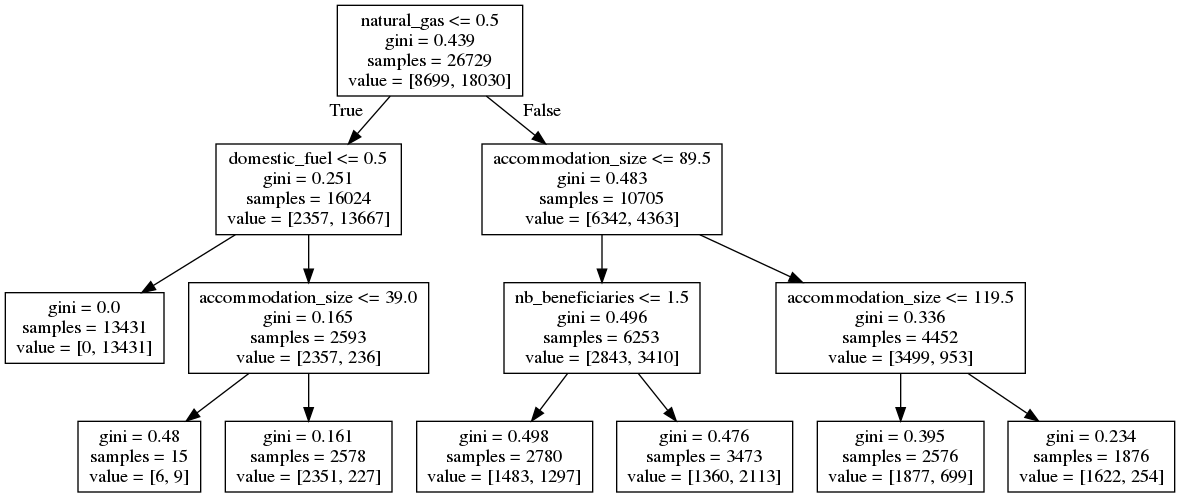
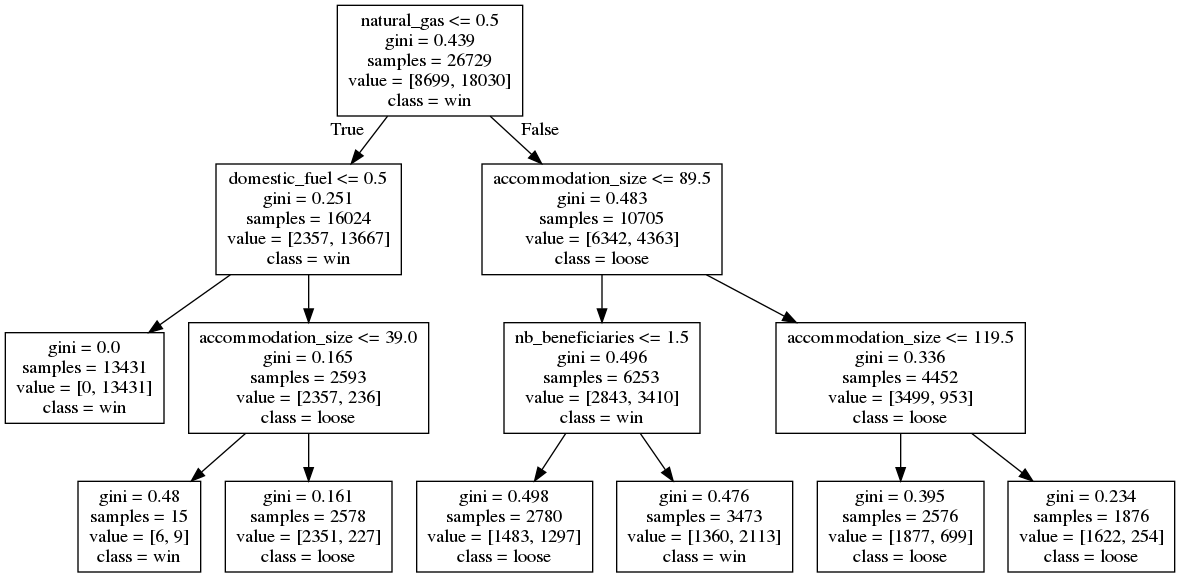
Corrected typos, added labels to tree

diff --git a/model_reforms_data/decision_tree.py b/model_reforms_data/decision_tree.py
@@ -36,11 +36,7 @@ if __name__ == "__main__":
     regr = tree.DecisionTreeRegressor(max_depth=3)
     regr.fit(df_hh[variables], df_hh['winner'])
     
-    tree_winner = predict_tree(df_hh)
-    variables = ['hh_income', 'hh_income_2', 'consumption_units', 'nb_beneficiaries', 'natural_gas',
-        'domestic_fuel', 'accommodation_size', 'age_18_24', 'age_25_34', 'age_35_49', 'age_50_64']
-    clf, regr = predict_tree(df_hh)
-    dot_data = tree.export_graphviz(clf, feature_names = variables)
+    dot_data = tree.export_graphviz(clf, feature_names = variables, class_names = ['loose', 'win'])
     graph = graphviz.Source(dot_data)
     graph
     graph.render('decision_tree', format='png')
